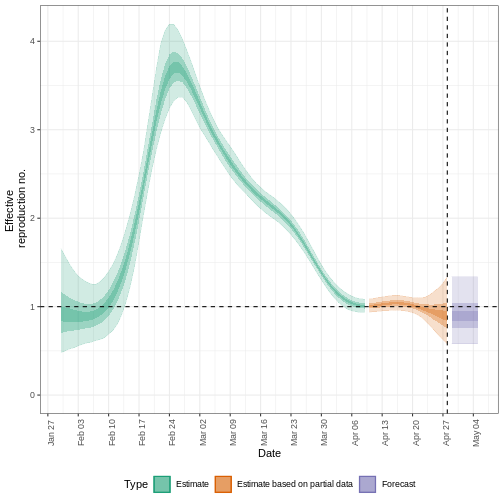
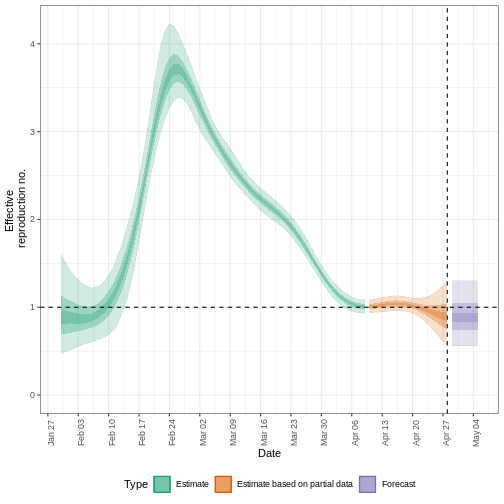
differences for PR #50

diff --git a/quantify-transmissibility.md b/quantify-transmissibility.md
@@ -46,7 +46,9 @@ But in an ongoing outbreak, the population does not remain entirely susceptible 
 
 ## Introduction
 
-The transmission intensity of an outbreak is quantified using two key metrics: the reproduction number, which informs on the strength of the transmission by indicating how many new cases are expected from each existing case; and the [growth rate](../learners/reference.md#growth), which informs on the speed of the transmission by indicating how rapidly the outbreak is spreading or declining (doubling/halving time) within a population. To estimate these key metrics using case data we must account for delays between the date of infections and date of reported cases. In an outbreak situation, data are usually available on reported dates only, therefore we must use estimation methods to account for these delays when trying to understand changes in transmission over time. For more details on the distinction between speed and strength of transmission and implications for control, see [Dushoff & Park, 2021](https://royalsocietypublishing.org/doi/full/10.1098/rspb.2020.1556).
+The transmission intensity of an outbreak is quantified using two key metrics: the reproduction number, which informs on the strength of the transmission by indicating how many new cases are expected from each existing case; and the [growth rate](../learners/reference.md#growth), which informs on the speed of the transmission by indicating how rapidly the outbreak is spreading or declining (doubling/halving time) within a population. For more details on the distinction between speed and strength of transmission and implications for control, review [Dushoff & Park, 2021](https://royalsocietypublishing.org/doi/full/10.1098/rspb.2020.1556).
+
+To estimate these key metrics using case data we must account for delays between the date of infections and date of reported cases. In an outbreak situation, data are usually available on reported dates only, therefore we must use estimation methods to account for these delays when trying to understand changes in transmission over time.
 
 In the next tutorials we will focus on how to use the functions in `{EpiNow2}` to estimate transmission metrics of case data. We will not cover the theoretical background of the models or inference framework, for details on these concepts see the [vignette](https://epiforecasts.io/EpiNow2/dev/articles/estimate_infections.html).
 
@@ -137,7 +139,11 @@ cases <- incidence2::covidregionaldataUK %>%
 
 ### When to use incidence2?
 
-We can also use the `{incidence2}` package to aggregate cases. However, if you ever need to aggregate you data in a different time **interval** (i.e., days, weeks or months) or per **group** categories, we recommend you to explore the `incidence2::incidence()` function:
+We can also use the `{incidence2}` package to:
+
+- Aggregate cases (similar to the code above) but in different time *intervals* (i.e., days, weeks or months) or per *group* categories. Explore later the [`incidence2::incidence()` reference manual](https://www.reconverse.org/incidence2/reference/incidence.html).
+
+- Complete dates for all the range of dates per group category using `incidence2::complete_dates()`. Read further in its [function reference manual](https://www.reconverse.org/incidence2/reference/complete_dates.html).
 
 
 ```r
@@ -151,12 +157,12 @@ incidence2::covidregionaldataUK %>%
   incidence2::incidence(
     date_index = "date",
     counts = "cases_new",
-    groups = "region",
-    interval = "week"
-  )
+    count_values_to = "confirm",
+    date_names_to = "date"
+  ) %>%
+  # complete range of dates
+  incidence2::complete_dates()
 ```
-
-You can also estimate transmission metrics from {incidence2} objects using the `{i2extras}` package. Read further in the [Fitting curves](https://www.reconverse.org/i2extras/articles/fitting_epicurves.html) vignette!
 
 :::::::::::::::::::::::::
 
@@ -401,10 +407,10 @@ estimates <- epinow(
 ```
 
 ```{.output}
-WARN [2024-04-02 21:48:34] epinow: There were 3 divergent transitions after warmup. See
+WARN [2024-04-08 16:12:17] epinow: There were 1 divergent transitions after warmup. See
 https://mc-stan.org/misc/warnings.html#divergent-transitions-after-warmup
 to find out why this is a problem and how to eliminate them. - 
-WARN [2024-04-02 21:48:34] epinow: Examine the pairs() plot to diagnose sampling problems
+WARN [2024-04-08 16:12:17] epinow: Examine the pairs() plot to diagnose sampling problems
  - 
 ```
 
@@ -437,24 +443,24 @@ summary(estimates)
 ```
 
 ```{.output}
-                                 measure                estimate
-                                  <char>                  <char>
-1: New confirmed cases by infection date    7242 (4119 -- 12675)
-2:        Expected change in daily cases       Likely decreasing
-3:            Effective reproduction no.      0.89 (0.58 -- 1.3)
-4:                        Rate of growth -0.015 (-0.063 -- 0.04)
-5:          Doubling/halving time (days)         -48 (17 -- -11)
+                                 measure                 estimate
+                                  <char>                   <char>
+1: New confirmed cases by infection date     7126 (4016 -- 12455)
+2:        Expected change in daily cases        Likely decreasing
+3:            Effective reproduction no.       0.88 (0.56 -- 1.3)
+4:                        Rate of growth -0.016 (-0.066 -- 0.037)
+5:          Doubling/halving time (days)          -45 (19 -- -11)
 ```
 
 As these estimates are based on partial data, they have a wide uncertainty interval.
 
-+ From the summary of our analysis we see that the expected change in daily cases is Likely decreasing with the estimated new confirmed cases 7242 (4119 -- 12675).
++ From the summary of our analysis we see that the expected change in daily cases is Likely decreasing with the estimated new confirmed cases 7126 (4016 -- 12455).
 
-+ The effective reproduction number $R_t$ estimate (on the last date of the data) is 0.89 (0.58 -- 1.3). 
++ The effective reproduction number $R_t$ estimate (on the last date of the data) is 0.88 (0.56 -- 1.3). 
 
-+ The exponential growth rate of case numbers is -0.015 (-0.063 -- 0.04).
++ The exponential growth rate of case numbers is -0.016 (-0.066 -- 0.037).
 
-+ The doubling time (the time taken for case numbers to double) is -48 (17 -- -11).
++ The doubling time (the time taken for case numbers to double) is -45 (19 -- -11).
 
 ::::::::::::::::::::::::::::::::::::: callout
 ### `Expected change in daily cases` 
@@ -524,17 +530,17 @@ estimates_regional <- regional_epinow(
 ```
 
 ```{.output}
-INFO [2024-04-02 21:48:39] Producing following optional outputs: regions, summary, samples, plots, latest
-INFO [2024-04-02 21:48:39] Reporting estimates using data up to: 2020-04-28
-INFO [2024-04-02 21:48:39] No target directory specified so returning output
-INFO [2024-04-02 21:48:39] Producing estimates for: East Midlands, East of England, England, London, North East, North West, Northern Ireland, Scotland, South East, South West, Wales, West Midlands, Yorkshire and The Humber
-INFO [2024-04-02 21:48:39] Regions excluded: none
-INFO [2024-04-02 22:33:54] Completed regional estimates
-INFO [2024-04-02 22:33:54] Regions with estimates: 13
-INFO [2024-04-02 22:33:54] Regions with runtime errors: 0
-INFO [2024-04-02 22:33:54] Producing summary
-INFO [2024-04-02 22:33:54] No summary directory specified so returning summary output
-INFO [2024-04-02 22:33:54] No target directory specified so returning timings
+INFO [2024-04-08 16:12:22] Producing following optional outputs: regions, summary, samples, plots, latest
+INFO [2024-04-08 16:12:22] Reporting estimates using data up to: 2020-04-28
+INFO [2024-04-08 16:12:22] No target directory specified so returning output
+INFO [2024-04-08 16:12:22] Producing estimates for: East Midlands, East of England, England, London, North East, North West, Northern Ireland, Scotland, South East, South West, Wales, West Midlands, Yorkshire and The Humber
+INFO [2024-04-08 16:12:22] Regions excluded: none
+INFO [2024-04-08 16:56:37] Completed regional estimates
+INFO [2024-04-08 16:56:37] Regions with estimates: 13
+INFO [2024-04-08 16:56:37] Regions with runtime errors: 0
+INFO [2024-04-08 16:56:37] Producing summary
+INFO [2024-04-08 16:56:37] No summary directory specified so returning summary output
+INFO [2024-04-08 16:56:38] No target directory specified so returning timings
 ```
 
 ```r
@@ -544,49 +550,49 @@ estimates_regional$summary$summarised_results$table
 ```{.output}
                       Region New confirmed cases by infection date
                       <char>                                <char>
- 1:            East Midlands                      342 (207 -- 545)
- 2:          East of England                      548 (332 -- 865)
- 3:                  England                   3540 (2244 -- 5532)
- 4:                   London                      295 (187 -- 464)
- 5:               North East                      253 (149 -- 431)
- 6:               North West                      558 (328 -- 894)
- 7:         Northern Ireland                         43 (22 -- 79)
- 8:                 Scotland                      287 (167 -- 527)
- 9:               South East                      593 (350 -- 996)
-10:               South West                      421 (298 -- 597)
-11:                    Wales                        95 (64 -- 136)
-12:            West Midlands                      271 (144 -- 489)
-13: Yorkshire and The Humber                      480 (290 -- 789)
+ 1:            East Midlands                      345 (213 -- 548)
+ 2:          East of England                      536 (335 -- 844)
+ 3:                  England                   3565 (2193 -- 5710)
+ 4:                   London                      290 (189 -- 445)
+ 5:               North East                      252 (145 -- 425)
+ 6:               North West                      552 (339 -- 862)
+ 7:         Northern Ireland                         44 (23 -- 88)
+ 8:                 Scotland                      293 (160 -- 514)
+ 9:               South East                     598 (363 -- 1002)
+10:               South West                      417 (293 -- 613)
+11:                    Wales                        95 (64 -- 143)
+12:            West Midlands                      270 (145 -- 483)
+13: Yorkshire and The Humber                      479 (279 -- 775)
     Expected change in daily cases Effective reproduction no.
                             <fctr>                     <char>
- 1:              Likely increasing          1.2 (0.83 -- 1.6)
+ 1:              Likely increasing          1.2 (0.84 -- 1.6)
  2:              Likely increasing          1.2 (0.83 -- 1.6)
- 3:              Likely decreasing         0.92 (0.64 -- 1.2)
- 4:              Likely decreasing         0.79 (0.55 -- 1.1)
- 5:              Likely decreasing         0.91 (0.62 -- 1.3)
- 6:              Likely decreasing         0.87 (0.57 -- 1.2)
- 7:              Likely decreasing           0.63 (0.38 -- 1)
- 8:              Likely decreasing         0.91 (0.61 -- 1.4)
- 9:                         Stable         0.99 (0.66 -- 1.4)
+ 3:              Likely decreasing         0.92 (0.63 -- 1.3)
+ 4:              Likely decreasing         0.78 (0.55 -- 1.1)
+ 5:              Likely decreasing          0.91 (0.6 -- 1.3)
+ 6:              Likely decreasing         0.86 (0.59 -- 1.2)
+ 7:              Likely decreasing         0.65 (0.39 -- 1.1)
+ 8:              Likely decreasing          0.92 (0.6 -- 1.4)
+ 9:                         Stable            1 (0.69 -- 1.4)
 10:                     Increasing           1.4 (1.1 -- 1.8)
-11:                     Decreasing        0.57 (0.42 -- 0.75)
-12:              Likely decreasing         0.71 (0.42 -- 1.1)
-13:                         Stable             1 (0.7 -- 1.4)
-               Rate of growth Doubling/halving time (days)
-                       <char>                       <char>
- 1:   0.023 (-0.023 -- 0.067)               30 (10 -- -30)
- 2:   0.024 (-0.023 -- 0.067)               28 (10 -- -31)
- 3:   -0.011 (-0.052 -- 0.03)              -62 (23 -- -13)
- 4:  -0.029 (-0.068 -- 0.012)              -24 (58 -- -10)
- 5:  -0.012 (-0.056 -- 0.037)              -60 (19 -- -12)
- 6:  -0.018 (-0.063 -- 0.024)              -38 (29 -- -11)
- 7:   -0.053 (-0.1 -- 0.0028)            -13 (240 -- -6.9)
- 8:  -0.012 (-0.057 -- 0.044)              -58 (16 -- -12)
- 9: -0.0012 (-0.049 -- 0.049)             -580 (14 -- -14)
-10:    0.047 (0.014 -- 0.084)               15 (8.2 -- 48)
-11: -0.065 (-0.093 -- -0.035)            -11 (-20 -- -7.4)
-12:  -0.041 (-0.092 -- 0.012)             -17 (59 -- -7.6)
-13:  0.0037 (-0.043 -- 0.051)              190 (14 -- -16)
+11:                     Decreasing        0.57 (0.41 -- 0.78)
+12:              Likely decreasing         0.71 (0.43 -- 1.1)
+13:                         Stable            1 (0.69 -- 1.4)
+                Rate of growth Doubling/halving time (days)
+                        <char>                       <char>
+ 1:    0.024 (-0.022 -- 0.069)               29 (10 -- -32)
+ 2:    0.022 (-0.023 -- 0.066)               31 (10 -- -30)
+ 3:   -0.011 (-0.053 -- 0.034)              -64 (21 -- -13)
+ 4:  -0.031 (-0.067 -- 0.0087)              -23 (80 -- -10)
+ 5:   -0.012 (-0.059 -- 0.035)              -56 (20 -- -12)
+ 6:    -0.019 (-0.06 -- 0.023)              -37 (30 -- -12)
+ 7:      -0.051 (-0.1 -- 0.01)               -14 (68 -- -7)
+ 8:     -0.01 (-0.06 -- 0.044)              -69 (16 -- -12)
+ 9: -0.00057 (-0.045 -- 0.049)            -1200 (14 -- -15)
+10:     0.046 (0.013 -- 0.086)               15 (8.1 -- 53)
+11:  -0.065 (-0.094 -- -0.031)            -11 (-22 -- -7.3)
+12:   -0.042 (-0.091 -- 0.011)             -17 (65 -- -7.6)
+13:   0.0028 (-0.044 -- 0.051)              250 (14 -- -16)
 ```
 
 ```r
@@ -595,6 +601,13 @@ estimates_regional$summary$plots$R
 
 <img src="fig/quantify-transmissibility-rendered-unnamed-chunk-21-1.png" style="display: block; margin: auto;" />
 
+:::::::::::::::::::::::::: testimonial
+
+### the i2extras package
+
+`{i2extras}` package also estimate transmission metrics like growth rate and doubling/halving time at different time intervals (i.e., days, weeks, or months). `{i2extras}` require `{incidence2}` objects as inputs. Read further in its [Fitting curves](https://www.reconverse.org/i2extras/articles/fitting_epicurves.html) vignette.
+
+::::::::::::::::::::::::::
 
 ## Summary
 

diff --git a/delays-reuse.md b/delays-reuse.md
@@ -8,7 +8,7 @@ editor_options:
 
 :::::::::::::::::::::::::::::::::::::: questions 
 
-- How to get easy access to delay distributions from a literature search database?
+- How to get access to disease delay distributions from a pre-established database for use in analysis?
 
 ::::::::::::::::::::::::::::::::::::::::::::::::
 
@@ -27,13 +27,13 @@ This episode requires you to be familiar with:
 
 **Data science** : Basic programming with R.
 
-**Epidemic theory** : Epidemiological parameters, time periods.
+**Epidemic theory** : epidemiological parameters, disease time periods, such as the incubation period, generation time, and serial interval.
 
 :::::::::::::::::::::::::::::::::
 
 ## Introduction
 
-The [natural history](../learners/reference.md#naturalhistory) of an infectious disease shows that its development has a regularity from stage to stage. The time periods from an infectious disease inform about the timing of transmission and interventions.
+Infectious diseases follow an infection cycle, which usually includes the following phases: presymptomatic period, symptomatic period and recovery period, as described by their [natural history](../learners/reference.md#naturalhistory). These time periods can be used to understand transmission dynamics and inform disease prevention and control interventions.
 
 ![Definition of key time periods. From [Xiang et al, 2021](https://www.sciencedirect.com/science/article/pii/S2468042721000038)](fig/time-periods.jpg)
 
@@ -50,7 +50,7 @@ However, early in an epidemic, modelling efforts can be delayed by the lack of a
 
 <!-- Early models for COVID-19 used parameters from other coronaviruses. https://www.thelancet.com/article/S1473-3099(20)30144-4/fulltext -->
 
-To exemplify how to use `{epiparameter}` in your analysis pipeline, our goal in this episode will be to *choose* one specific set of epidemiological parameters from the literature, instead of *copying-and-pasting* them by hand, to plug them into an `{EpiNow2}` analysis workflow.
+To exemplify how to use the `{epiparameter}` R package in your analysis pipeline, our goal in this episode will be to choose one specific set of epidemiological parameters from the literature, instead of copying-and-pasting them by hand, to plug them into an `{EpiNow2}` analysis workflow.
 
 <!-- In this episode, we'll learn how to choose one specific set of epidemiological parameters from the literature and then get their **summary statistics** using `{epiparameter}`.  -->
 
@@ -76,13 +76,9 @@ generation_time <-
   )
 ```
 
-Usually, we would *copy/paste* the **summary statistics** we found in a paper. Or, try to get the **distribution parameters** from those reports. An additional source of issue is that the report of different statistical distributions is not consistent across the literature. `{epiparameter}`’s objective is to facilitate the access to parameters to implement them into your analysis pipeline. `{epiparameter}` provide information for a collection of distributions for a range of infectious diseases that is as accurate, unbiased and as comprehensive as possible.
+It is a common practice for analysts to manually search the available literature and copy and paste the **summary statistics** or the **distribution parameters** from scientific publications. A challenge that is often faced is that the reporting of different statistical distributions is not consistent across the literature. `{epiparameter}`’s objective is to facilitate the access to reliable estimates of distribution parameters for a range of infectious diseases, so that they can easily be implemented in outbreak analytic pipelines.
 
-<!-- https://epiverse-trace.github.io/epiparameter/articles/data_protocol.html -->
-
-Today, we'll *choose* the summary statistics from the library of epidemiological parameters provided by `{epiparameter}`.
-
-<!-- Instead of *manually* plug-in numeric values to `EpiNow2::dist_spec()` to specify the **summary statistics** of the delay distribution, we are going to *choose* them from the library of epidemiological parameters provided by `{epiparameter}`. -->
+In this episode, we will *choose* the summary statistics from the library of epidemiological parameters provided by `{epiparameter}`.
 
 <!--
 ```r
@@ -100,9 +96,9 @@ epinow_estimates <- epinow(
 ```
 -->
 
-## Find a Generation time
+## Generation time vs serial interval
 
-The generation time, jointly with the $R$, can inform about the speed of spread and its feasibility of control. Given a $R>1$, with a shorter generation time, cases can appear more quickly.
+The generation time, jointly with the reproduction number ($R$), provide valuable insights on the strength of transmission and inform the implementation of control measures. Given a $R>1$, the shorter the generation time, the earlier the incidence of disease cases will grow.
 
 ![Video from the MRC Centre for Global Infectious Disease Analysis, Ep 76. Science In Context - Epi Parameter Review Group with Dr Anne Cori (27-07-2023) at <https://youtu.be/VvpYHhFDIjI?si=XiUyjmSV1gKNdrrL>](fig/reproduction-generation-time.png)
 
@@ -111,9 +107,9 @@ This frequent approximation is because it is easier to observe and measure the o
 
 ![A schematic of the relationship of different time periods of transmission between an infector and an infectee in a transmission pair. Exposure window is defined as the time interval having viral exposure, and transmission window is defined as the time interval for onward transmission with respect to the infection time ([Chung Lau et al., 2021](https://academic.oup.com/jid/article/224/10/1664/6356465)).](fig/serial-interval-observed.jpeg)
 
-However, using the *serial interval* as an approximation of the *generation time* is primarily valid for diseases in which infectiousness starts after symptom onset ([Chung Lau et al., 2021](https://academic.oup.com/jid/article/224/10/1664/6356465)). In cases where infectiousness starts before symptom onset, the serial intervals can have negative values, which is the case of a pre-symptomatic transmission ([Nishiura et al., 2020](https://www.ijidonline.com/article/S1201-9712(20)30119-3/fulltext#gr2)).
+However, using the *serial interval* as an approximation of the *generation time* is primarily valid for diseases in which infectiousness starts after symptom onset ([Chung Lau et al., 2021](https://academic.oup.com/jid/article/224/10/1664/6356465)). In cases where infectiousness starts before symptom onset, the serial intervals can have negative values, which is the case for diseases with pre-symptomatic transmission ([Nishiura et al., 2020](https://www.ijidonline.com/article/S1201-9712(20)30119-3/fulltext#gr2)).
 
-Additionally, even if the *generation time* and *serial interval* have the same mean, their variance usually differs, propagating bias to the $R_{t}$ estimation. $R_{t}$ estimates are sensitive not only to the mean generation time but also to the variance and form of the generation interval distribution [(Gostic et al., 2020)](https://journals.plos.org/ploscompbiol/article?id=10.1371/journal.pcbi.1008409).
+<!-- Additionally, even if the *generation time* and *serial interval* have the same mean, their variance usually differs, propagating bias to the $R_{t}$ estimation ([Gostic et al., 2020](https://journals.plos.org/ploscompbiol/article?id=10.1371/journal.pcbi.1008409)). -->
 
 ::::::::::::::::: callout
 
@@ -171,13 +167,13 @@ The peak of each curve can inform you about the location of the mean of each dis
 
 ::::::::::::::::: solution
 
-Which one would be harder to control?
+**Which one would be harder to control?**
 
-- COVID-19
+COVID-19
 
-Why do you conclude that?
+**Why do you conclude that?**
 
-- COVID-19 has the lowest mean serial interval. The approximate mean value for the serial interval of COVID-19 is around four days, and SARS is about seven days. Thus, COVID-19 will likely have newer generations in less time than SARS, assuming similar reproduction numbers.
+COVID-19 has the lowest mean serial interval. The approximate mean value for the serial interval of COVID-19 is around four days, and SARS is about seven days. Thus, COVID-19 will likely have newer generations in less time than SARS, assuming similar reproduction numbers.
 
 ::::::::::::::::::::::::::
 
@@ -189,11 +185,11 @@ The objective of the assessment above is to assess the interpretation of a large
 
 ::::::::::::::::::::::
 
-## Extract epidemiological parameters
+## Choosing epidemiological parameters
 
-First, let's assume that the data set `example_confirmed` has COVID-19 observed cases. So, we need to find a reported generation time for COVID-19 or any other useful parameter for this aim. 
+In this section, we will use `{epiparameter}` to obtain the generation time and the serial interval for COVID-19, so these metrics can be used to estimate the transmissibility of this disease using `{EpiNow2}` in subsequent sections of this episode.
 
-Let's start by looking at how many parameters we have in the epidemiological distributions database in `{epiparameter}` (`epidist_db`) for the `disease` named `covid`-19:
+Let's start by looking at how many entries are available in the epidemiological distributions database in `{epiparameter}` (`epidist_db`) for the `disease` named `covid`-19:
 
 
 ```r
@@ -249,7 +245,7 @@ Parameters:
   scale: 3.180
 ```
 
-Currently, in the library of epidemiological parameters, we have one `generation` time entry for Influenza. Considering the abovementioned considerations, we can look at the `serial` intervals for `COVID`-19. Run this locally!
+Currently, in the library of epidemiological parameters, we have one `generation` time entry for Influenza. Considering the above-mentioned considerations, we can look at the `serial` intervals for `COVID`-19. Run this locally!
 
 
 ```r
@@ -265,7 +261,7 @@ With this query combination, we get more than one delay distribution. This outpu
 
 ### CASE-INSENSITIVE
 
-`epidist_db` is [case-insensitive](https://dillionmegida.com/p/case-sensitivity-vs-case-insensitivity/#case-insensitivity). This means that you can use strings with letters in upper or lower case indistinctly.
+`epidist_db` is [case-insensitive](https://dillionmegida.com/p/case-sensitivity-vs-case-insensitivity/#case-insensitivity). This means that you can use strings with letters in upper or lower case indistinctly. Strings like `"serial"`, `"serial interval"` or `"serial_interval"` are also valid.
 
 :::::::::::::::::::::::::
 
@@ -530,8 +526,6 @@ What is a *parametrised* `<epidist>`? Look at `?is_parameterised`.
 
 :::::::::::::::::::::::::
 
-Now, we have an epidemiological parameter we can reuse! We can replace the **summary statistics** numbers we plug into `EpiNow2::dist_spec()`.
-
 Let's assign this `<epidist>` class object to the `covid_serialint` object.
 
 
@@ -611,13 +605,13 @@ covid_serialint$summary_stats$mean
 [1] 4.7
 ```
 
-Notice that with this output we can replace one of the inputs for the `EpiNow2::dist_spec()` function:
+Now, we have an epidemiological parameter we can reuse! We can replace the **summary statistics** numbers we plug into the `EpiNow2::dist_spec()` function:
 
 ```r
 generation_time <- 
   EpiNow2::dist_spec(
-    mean = covid_serialint$summary_stats$mean, # we changed this line :)
-    sd = 2,
+    mean = covid_serialint$summary_stats$mean, # replaced!
+    sd = covid_serialint$summary_stats$sd, # replaced!
     max = 20,
     distribution = "gamma"
   )

diff --git a/setup.md b/setup.md
@@ -4,7 +4,7 @@ title: Setup
 
 ## Motivation
 
-**Outbreaks** appear with different diseases and in different contexts, but what all of them have in common is the key public health **questions** ([Cori et al. 2017](https://royalsocietypublishing.org/doi/10.1098/rstb.2016.0371#d1e605)). We can relate these key public health questions to outbreak data analysis **tasks**.
+**Outbreaks** appear with different diseases and in different contexts, but what all of them have in common is the key public health questions ([Cori et al. 2017](https://royalsocietypublishing.org/doi/10.1098/rstb.2016.0371#d1e605)). We can relate these key public health questions to outbreak data analysis tasks.
 
 Epiverse-TRACE aims to provide a software ecosystem for [**outbreak analytics**](reference.md#outbreakanalytics) with integrated, generalisable and scalable community-driven software. We support the development of R packages, make the existing ones interoperable for the user experience, and stimulate a community of practice.
 
@@ -35,7 +35,7 @@ Also check out the [glossary](../reference.md) for any terms you may be unfamili
 
 Our strategy is to gradually incorporate specialised **R packages** into our traditional analysis pipeline. These packages should fill the gaps in these epidemiology-specific tasks in response to outbreaks.
 
-![In **R**, the fundamental unit of shareable code is the **package**. A package bundles together code, data, documentation, and tests and is easy to share with others ([Wickham and Bryan, 2023](https://r-pkgs.org/introduction.html))](episodes/fig/pkgs-hexlogos.png)
+![In **R**, the fundamental unit of shareable code is the **package**. A package bundles together code, data, documentation, and tests and is easy to share with others ([Wickham and Bryan, 2023](https://r-pkgs.org/introduction.html))](episodes/fig/pkgs-hexlogos-2.png)
 
 :::::::::::::::::::::::::::: prereq
 
